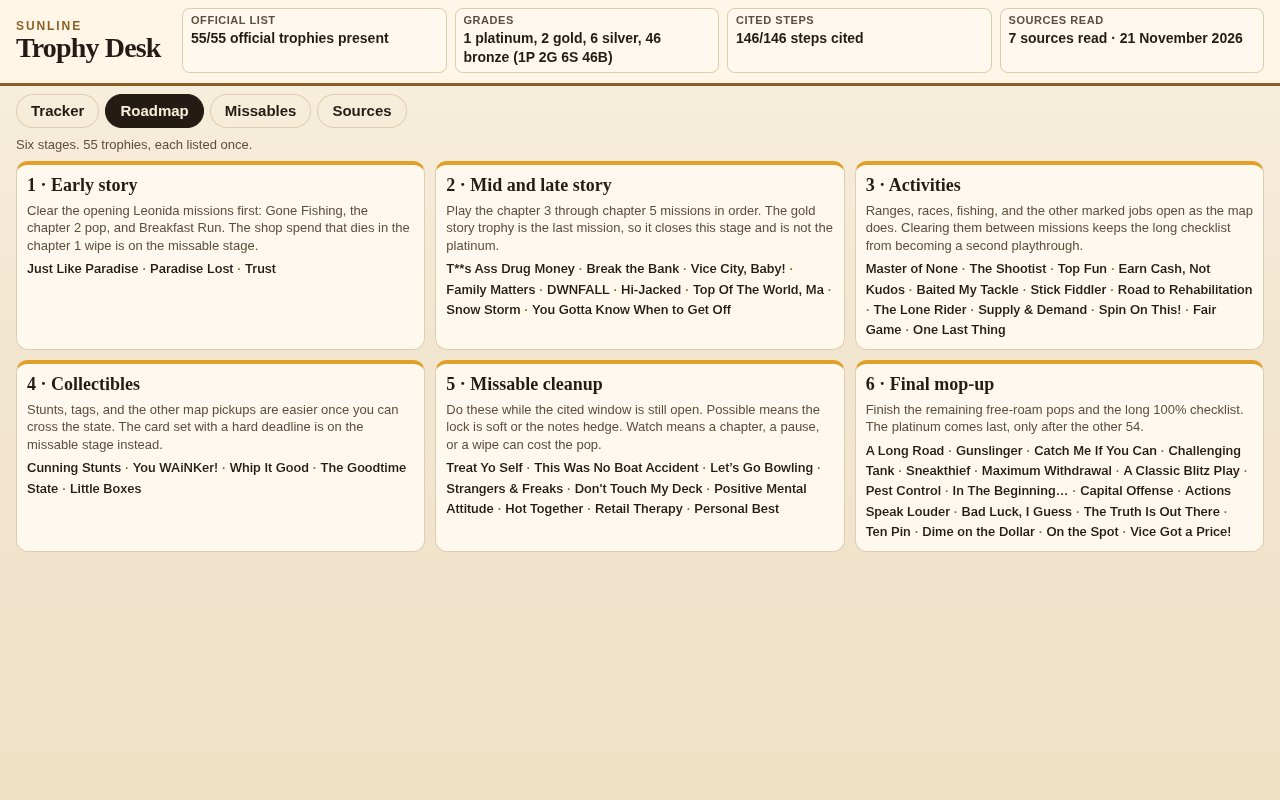
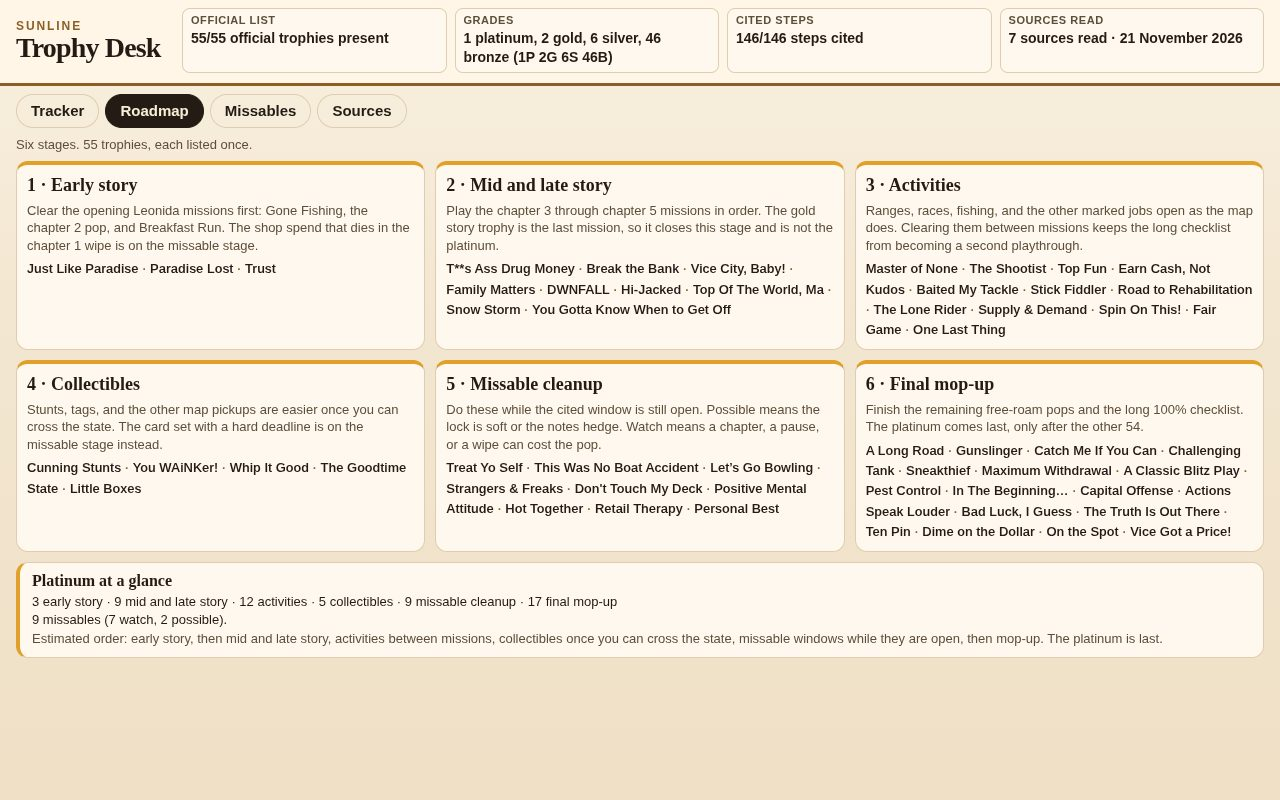
Polish: fresh guide summaries, roadmap glance strip, check box

Changed region(s): [[0.0, 0.6875, 1.0, 0.8438]]

diff --git a/app/desk.js b/app/desk.js
@@ -396,6 +396,35 @@
       card.appendChild(chips);
       root.appendChild(card);
     });
+    renderGlance(stages);
+  }
+
+  function renderGlance(stages) {
+    var root = $("glance");
+    root.textContent = "";
+    var title = document.createElement("h2");
+    title.textContent = "Platinum at a glance";
+    var counts = document.createElement("p");
+    counts.textContent = stages.map(function (stage) {
+      var label = stage.title.replace(/^\d+\s·\s/, "").toLowerCase();
+      return stage.ids.length + " " + label;
+    }).join(" · ");
+    var watch = 0;
+    var possible = 0;
+    state.trophies.forEach(function (trophy) {
+      if (trophy.missable === "watch") watch += 1;
+      else if (trophy.missable === "possible") possible += 1;
+    });
+    var risk = document.createElement("p");
+    risk.textContent = (watch + possible) + " missables (" + watch +
+      " watch, " + possible + " possible).";
+    var order = document.createElement("p");
+    order.className = "why";
+    order.textContent = "Estimated order: early story, then mid and late story, activities between missions, collectibles once you can cross the state, missable windows while they are open, then mop-up. The platinum is last.";
+    root.appendChild(title);
+    root.appendChild(counts);
+    root.appendChild(risk);
+    root.appendChild(order);
   }
 
   function renderMissables() {
@@ -503,6 +532,14 @@
     var wrap = $("coverage");
     wrap.textContent = "";
     wrap.appendChild(table);
+    var counts = gradeCounts();
+    var cites = citeTotals();
+    $("checked-copy").textContent = state.trophies.length + "/" + state.trophies.length +
+      " names matched against the official list. Grade split is " +
+      counts.platinum + " platinum, " + counts.gold + " gold, " +
+      counts.silver + " silver, " + counts.bronze + " bronze. " +
+      cites.cited + "/" + cites.total + " steps are cited. Sources were read " +
+      dates.map(formatRead).join(", ") + ".";
   }
 
   function showTab(name) {

diff --git a/main.ts b/main.ts
@@ -91,9 +91,6 @@ assertInputs();
 mkdirSync(outputDir, { recursive: true });
 const appCopy = copyTree('app');
 const shotCopy = copyTree('screenshots');
-console.log(
-  `Copied ${appCopy.files} app files (${appCopy.bytes} bytes) and ${shotCopy.files} screenshots (${shotCopy.bytes} bytes)`,
-);
 
 /** Gate rule: every trophy guide is prose, not the step object. */
 function assertTextGuides(): void {
@@ -137,4 +134,8 @@ try {
   throw err;
 }
 writeFileSync(dossierPath, dossier);
-console.log(`Wrote ${dossierPath} (${dossier.byteLength} bytes)`);
+const copiedFiles = appCopy.files + shotCopy.files;
+const copiedBytes = appCopy.bytes + shotCopy.bytes;
+console.log(
+  `Copied ${copiedFiles} files (${copiedBytes} bytes) and wrote dossier.json (${dossier.byteLength} bytes)`,
+);

diff --git a/app/index.html b/app/index.html
@@ -87,6 +87,7 @@
     <section id="panel-roadmap" class="panel" role="tabpanel" hidden aria-labelledby="tab-roadmap">
       <p class="lede" id="roadmap-note"></p>
       <ol class="cards" id="roadmap"></ol>
+      <aside class="glance" id="glance" aria-label="Platinum at a glance"></aside>
     </section>
 
     <section id="panel-missables" class="panel" role="tabpanel" hidden aria-labelledby="tab-missables">
@@ -100,6 +101,10 @@
         <ol class="source-list" id="source-list"></ol>
         <div id="coverage"></div>
       </div>
+      <aside class="checked" id="checked" aria-label="How this guide was checked">
+        <h2>How this guide was checked</h2>
+        <p id="checked-copy"></p>
+      </aside>
     </section>
   </main>
   <script src="desk.js"></script>

diff --git a/app/desk.css b/app/desk.css
@@ -348,6 +348,30 @@ select {
 
 .chips li:last-child::after { content: ""; }
 
+.glance, .checked {
+  margin-top: 10px;
+  padding: 8px 12px 9px;
+  background: var(--card);
+  border: 1px solid var(--line);
+  border-left: 4px solid var(--sun);
+  border-radius: 12px;
+}
+
+.glance h2, .checked h2 {
+  margin: 0 0 3px;
+  font-family: Georgia, "Palatino Linotype", Palatino, serif;
+  font-size: 16px;
+  line-height: 1.2;
+}
+
+.glance p, .checked p {
+  margin: 0;
+  font-size: 13px;
+  line-height: 1.35;
+}
+
+.glance .why { margin-top: 2px; }
+
 .matrix, .cover {
   width: 100%;
   border-collapse: collapse;
